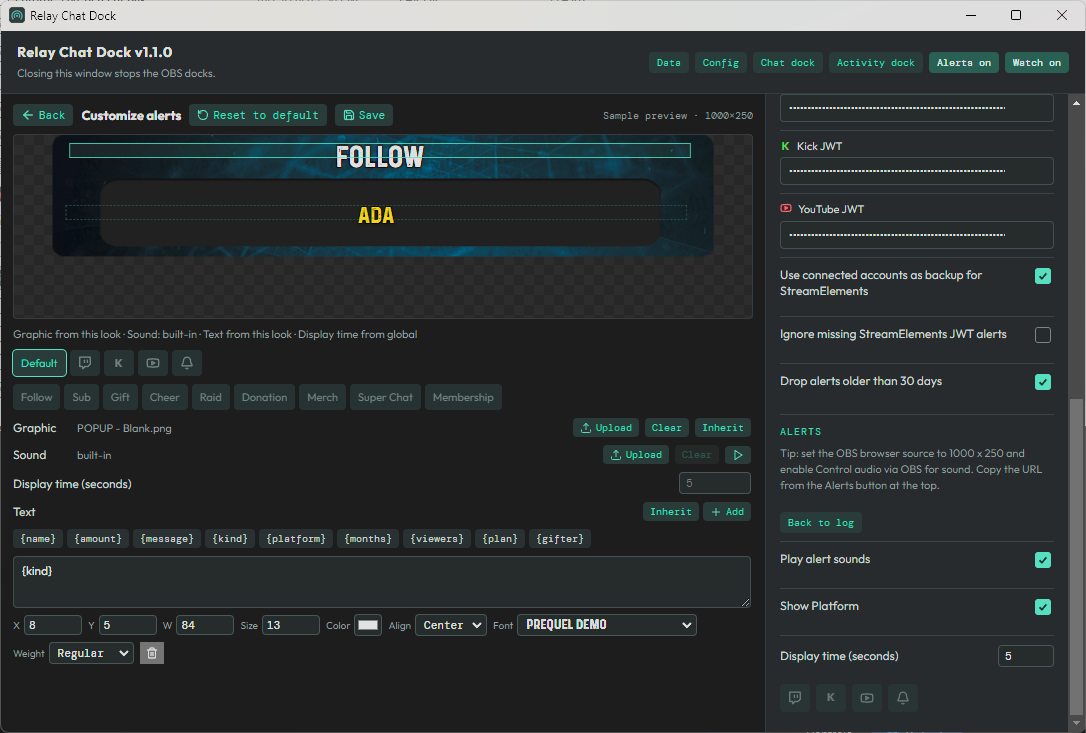
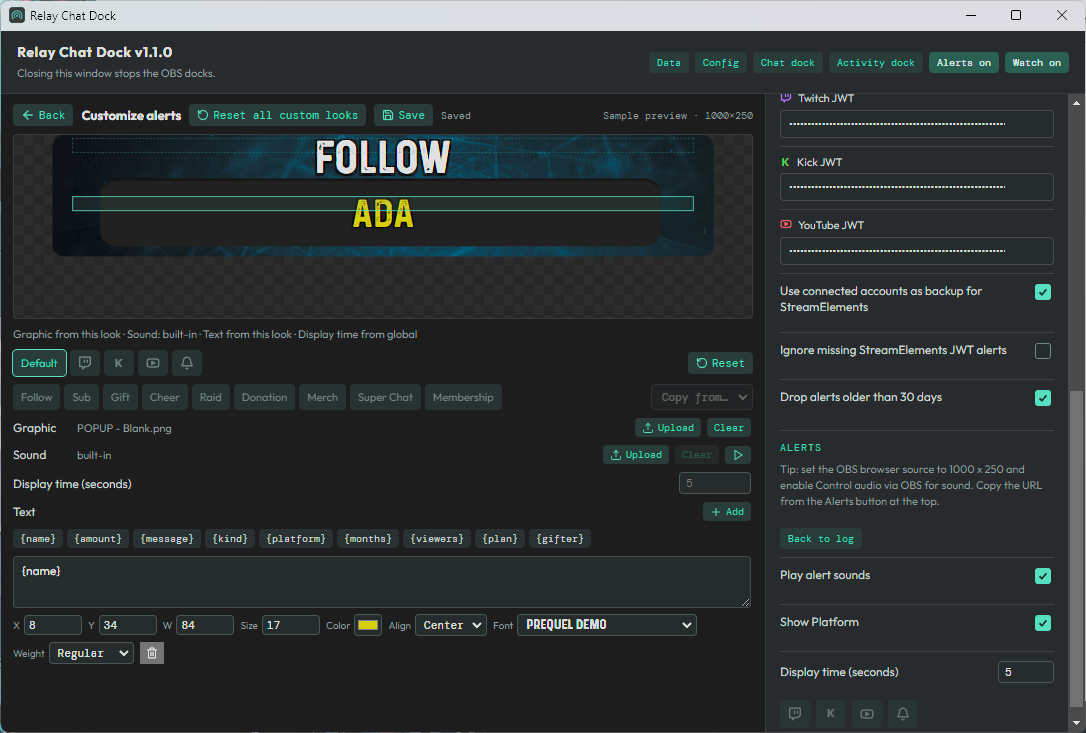
v1.1.0: drop the text Clear button and refresh the Customize screenshot
Text boxes come off one at a time with the trash control. Graphic and Sound keep Clear so those files can come off without resetting the row.

diff --git a/src/alerts/AlertDesigner.tsx b/src/alerts/AlertDesigner.tsx
@@ -561,12 +561,6 @@ export function AlertDesigner({
         <div className="alert-designer-text-head">
           <span>Text</span>
           <span className="alert-designer-text-actions">
-            <button
-              type="button"
-              disabled={own?.textBoxes === undefined}
-              title="Remove this text and use the text above"
-              onClick={() => commit(setLookField(draftRef.current, target, 'textBoxes', undefined), true)}
-            >Clear</button>
             <button type="button" disabled={boxes.length >= 8} onClick={addBox}><Plus size={12} /> Add</button>
           </span>
         </div>
@@ -617,7 +611,7 @@ export function AlertDesigner({
                   {FONT_WEIGHTS.map((item) => <option key={item.value} value={item.value}>{item.label}</option>)}
                 </select>
               </label>
-              <button type="button" title="Remove text box" onClick={() => removeBox(selected)}><Trash2 size={12} /></button>
+              <button type="button" title="Delete this text box" onClick={() => removeBox(selected)}><Trash2 size={12} /></button>
             </div>
           </div>
         ) : (

diff --git a/tests/alert-designer.test.ts b/tests/alert-designer.test.ts
@@ -292,7 +292,7 @@ describe('companion designer markup', () => {
     assert.doesNotMatch(reset, /disabled/)
   })
 
-  it('offers Copy from Default and Clear for owned text, with no Inherit button', () => {
+  it('deletes one text box from the row next to Weight, and Text has no Clear', () => {
     const html = renderToStaticMarkup(createElement(AlertDesigner, {
       settings: parseAlertSettings({
         enabled: true,
@@ -304,9 +304,9 @@ describe('companion designer markup', () => {
     assert.match(html, /Copy from…/)
     assert.match(html, /alert-designer-copy" disabled/)
     assert.doesNotMatch(html, />Inherit</)
+    assert.match(html, /title="Delete this text box"/)
     const actions = html.split('alert-designer-text-actions')[1]?.split('alert-designer-tokens')[0] || ''
-    assert.match(actions, />Clear<\/button>/)
-    assert.doesNotMatch(actions, /disabled/)
+    assert.doesNotMatch(actions, />Clear</)
     assert.match(actions, /Add<\/button>/)
   })
 
